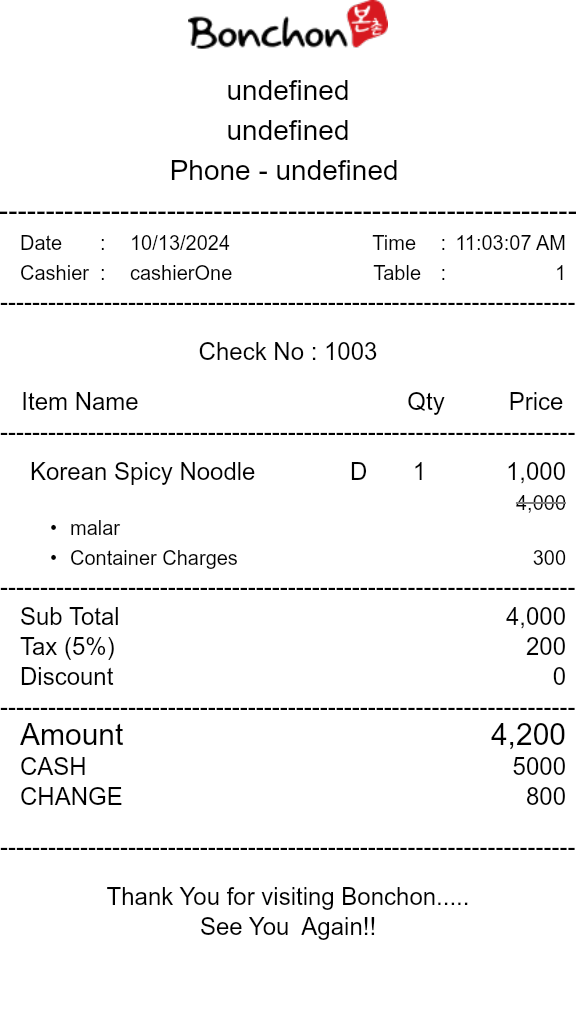
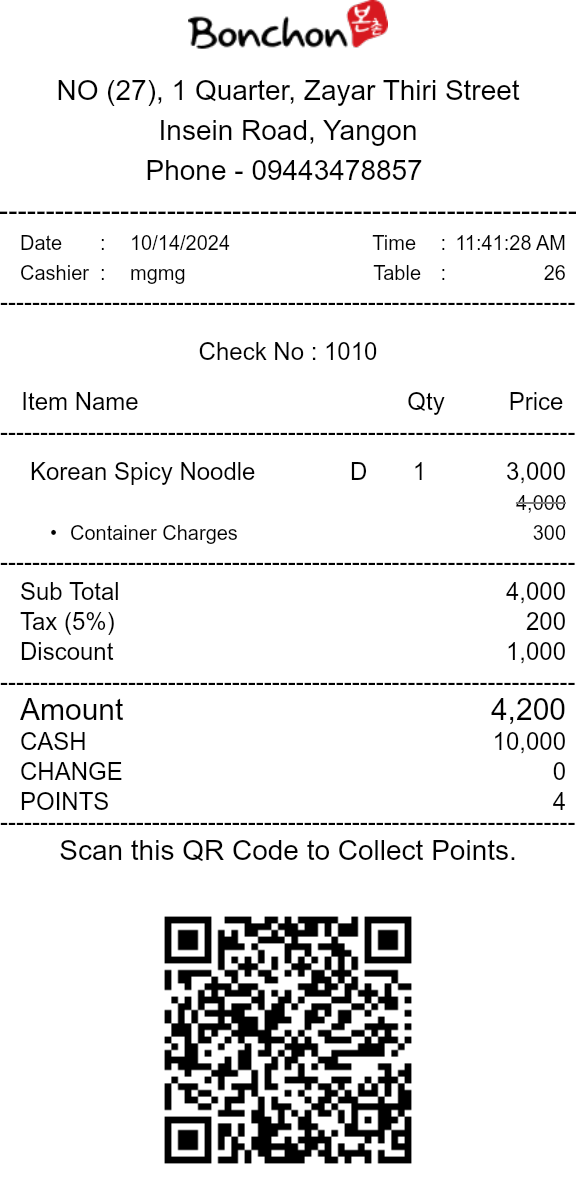
[feature]: change design layout in slip

diff --git a/printer/cashierPrintUi.js b/printer/cashierPrintUi.js
@@ -1,32 +1,32 @@
-const {createCanvas , loadImage} = require("@napi-rs/canvas");
-const {v4: uuidv4} = require("uuid");
+const { createCanvas, loadImage } = require("@napi-rs/canvas");
+const { v4: uuidv4 } = require("uuid");
 const QRCode = require("qrcode");
 const fs = require("fs");
 
 let customLastByItemLineH, customLastLineH, customQrLineH;
 
-const cashierPrintSlipBuffer =  async (employee_name, branchData, table_name, transitionId, grand_total_amount, sub_total_amount, tax_amount, service_charge_amount, discount_amount, discount_name, cash_back, payment, payment_type_id, branch_id, dinner_table_id, add_on, inclusive, point, payment_type_name, data, orderNo) => {
+const cashierPrintSlipBuffer = async(employee_name, branchData, table_name, transitionId, grand_total_amount, sub_total_amount, tax_amount, service_charge_amount, discount_amount, discount_name, cash_back, payment, payment_type_id, branch_id, dinner_table_id, add_on, inclusive, point, payment_type_name, data, orderNo) => {
     console.log("cashierPrintUi [cashierPrintSlipBuffer]:", data);
     let flavourTypeDataLength = 0;
     let containerDataLength = 0;
     let discountDataLength = 0;
     data.forEach(each => {
-        if(each.flavour_types){
+        if (each.flavour_types) {
             flavourTypeDataLength += 1;
         }
-        if(each.combo_menu_items){
+        if (each.combo_menu_items) {
             const comboMenuItems = typeof each.combo_menu_items == "string" ? JSON.parse(each.combo_menu_items) : each.combo_menu_items;
             comboMenuItems.forEach((eachCombo) => {
-                if(eachCombo.flavour_types){
+                if (eachCombo.flavour_types) {
                     flavourTypeDataLength += 1;
                 }
             })
         }
-        if(each.container_charges > 0){
+        if (each.container_charges > 0) {
             containerDataLength += 1;
         }
 
-        if(each.discount_price > 0){
+        if (each.discount_price > 0) {
             discountDataLength += 1;
         }
     })
@@ -80,7 +80,7 @@ const slipHeightData = (data, point) => {
     return { lineHeight, nameH, addH, phoneH, titleLineH, invoiceH, dateTimeH, tableCashierH, informationLineH, headerHeight, firstLineH };
 };
 
-const headerUi = async (ctx, canvas, branchData, nameH, addH, phoneH, titleLineH, lineHeight ) => {
+const headerUi = async(ctx, canvas, branchData, nameH, addH, phoneH, titleLineH, lineHeight) => {
     console.log("cashierPrintUi [headerUi]: print Header")
     ctx.font = "24px Pyidaungsu";
     ctx.fillStyle = "black";
@@ -112,7 +112,7 @@ const headerUi = async (ctx, canvas, branchData, nameH, addH, phoneH, titleLineH
     );
 };
 
-const informationUi = (ctx, canvas, employee_name, table_name , dateTimeH, tableCashierH, informationLineH, date, time) => {
+const informationUi = (ctx, canvas, employee_name, table_name, dateTimeH, tableCashierH, informationLineH, date, time) => {
     console.log("cashierPrintUi [informationUi]: print informationUi")
     ctx.textAlign = "start";
     ctx.font = "20px Comic Sans Ms";
@@ -171,8 +171,8 @@ const buyItemUi = (ctx, canvas, data, headerHeight, firstLineH, transitionId, in
         ctx.textAlign = "right";
         ctx.fillText(productItem.quantity.toLocaleString("en-US"), canvas.width - 150, flavourYPos);
 
-        if(productItem.discount_price > 0){
-            ctx.fillText(productItem.discount_price.toLocaleString("en-US"), canvas.width - 10, flavourYPos);
+        if (productItem.discount_price > 0) {
+            ctx.fillText((productItem.total_amount - productItem.discount_price).toLocaleString("en-US"), canvas.width - 10, flavourYPos);
 
             flavourYPos += 30;
             ctx.font = "20px Comic Sans Ms";
@@ -188,12 +188,12 @@ const buyItemUi = (ctx, canvas, data, headerHeight, firstLineH, transitionId, in
             ctx.moveTo(canvas.width - 10 - textWidth, flavourYPos - 7); // Start point of the line
             ctx.lineTo(canvas.width - 10, flavourYPos - 7); // End point of the line
             ctx.stroke();
-        }else{
+        } else {
             ctx.fillText(productItem.total_amount.toLocaleString("en-US"), canvas.width - 10, flavourYPos);
         }
 
         // need change
-        if(productItem.combo_menu_items){
+        if (productItem.combo_menu_items) {
             const comboMenuItems = typeof productItem.combo_menu_items == "string" ? JSON.parse(productItem.combo_menu_items) : productItem.combo_menu_items;
 
             comboMenuItems.forEach((eachCombo) => {
@@ -205,7 +205,7 @@ const buyItemUi = (ctx, canvas, data, headerHeight, firstLineH, transitionId, in
             })
         }
 
-        if(productItem.flavour_types){
+        if (productItem.flavour_types) {
             ctx.textAlign = "start";
             ctx.font = "20px Comic Sans Ms";
             flavourYPos += 25;
@@ -213,7 +213,7 @@ const buyItemUi = (ctx, canvas, data, headerHeight, firstLineH, transitionId, in
             ctx.fillText(productItem.flavour_types, 70, flavourYPos);
         }
 
-        if(productItem.container_charges > 0) {
+        if (productItem.container_charges > 0) {
             flavourYPos += 30;
             ctx.font = "20px Comic Sans Ms";
             ctx.textAlign = "start";
@@ -239,7 +239,7 @@ const buyItemUi = (ctx, canvas, data, headerHeight, firstLineH, transitionId, in
 
 const paymentDetailUi = (ctx, canvas, sub_total_amount, tax_amount, discount_amount, grand_total_amount, payment_type_name, payment, cash_back, point, add_on, inclusive, service_charge_amount) => {
     console.log("cashierPrintUi [paymentDetailUi]: print paymentDetailUi")
-    //subtotal
+        //subtotal
     ctx.textAlign = "start";
     ctx.fillText(`Sub Total`, 20, customLastByItemLineH + 30);
     ctx.textAlign = "right";
@@ -283,7 +283,7 @@ const paymentDetailUi = (ctx, canvas, sub_total_amount, tax_amount, discount_amo
     ctx.textAlign = "right";
     ctx.fillText(`${cash_back.toLocaleString("en-US")}`, canvas.width - 10, customLastByItemLineH + 210);
 
-    if(point){
+    if (point) {
         ctx.textAlign = "start";
         ctx.fillText(`POINTS`, 20, customLastByItemLineH + 240);
         ctx.textAlign = "right";
@@ -298,13 +298,13 @@ const paymentDetailUi = (ctx, canvas, sub_total_amount, tax_amount, discount_amo
     );
 }
 
-const qrUi = async (transitionId, point, ctx, canvas, grand_total_amount) => {
+const qrUi = async(transitionId, point, ctx, canvas, grand_total_amount) => {
     console.log("cashierPrintUi [qrUi]: print qr ui")
     ctx.font = "28px Pyidaungsu";
     ctx.textAlign = "center";
-    ctx.fillText("Scan this QR Code to Collect Points.", canvas.width/2, customLastLineH + 30);
+    ctx.fillText("Scan this QR Code to Collect Points.", canvas.width / 2, customLastLineH + 30);
 
-    const data = {id: transitionId, point, amount: grand_total_amount};
+    const data = { id: transitionId, point, amount: grand_total_amount };
     console.log(data);
     const qrCodeData = await QRCode.toDataURL(JSON.stringify(data));
 
@@ -325,9 +325,9 @@ const qrUi = async (transitionId, point, ctx, canvas, grand_total_amount) => {
 }
 
 
-const footerUi = (ctx, canvas, point ) => {
+const footerUi = (ctx, canvas, point) => {
     console.log("cashierPrintUi [footerUi]: print footerUi")
-    const customThankH = point ? customQrLineH + 50: customLastLineH + 50;
+    const customThankH = point ? customQrLineH + 50 : customLastLineH + 50;
     //thank you
     ctx.textAlign = "center";
     ctx.fillText("Thank You for visiting Bonchon.....", canvas.width / 2, customThankH);
